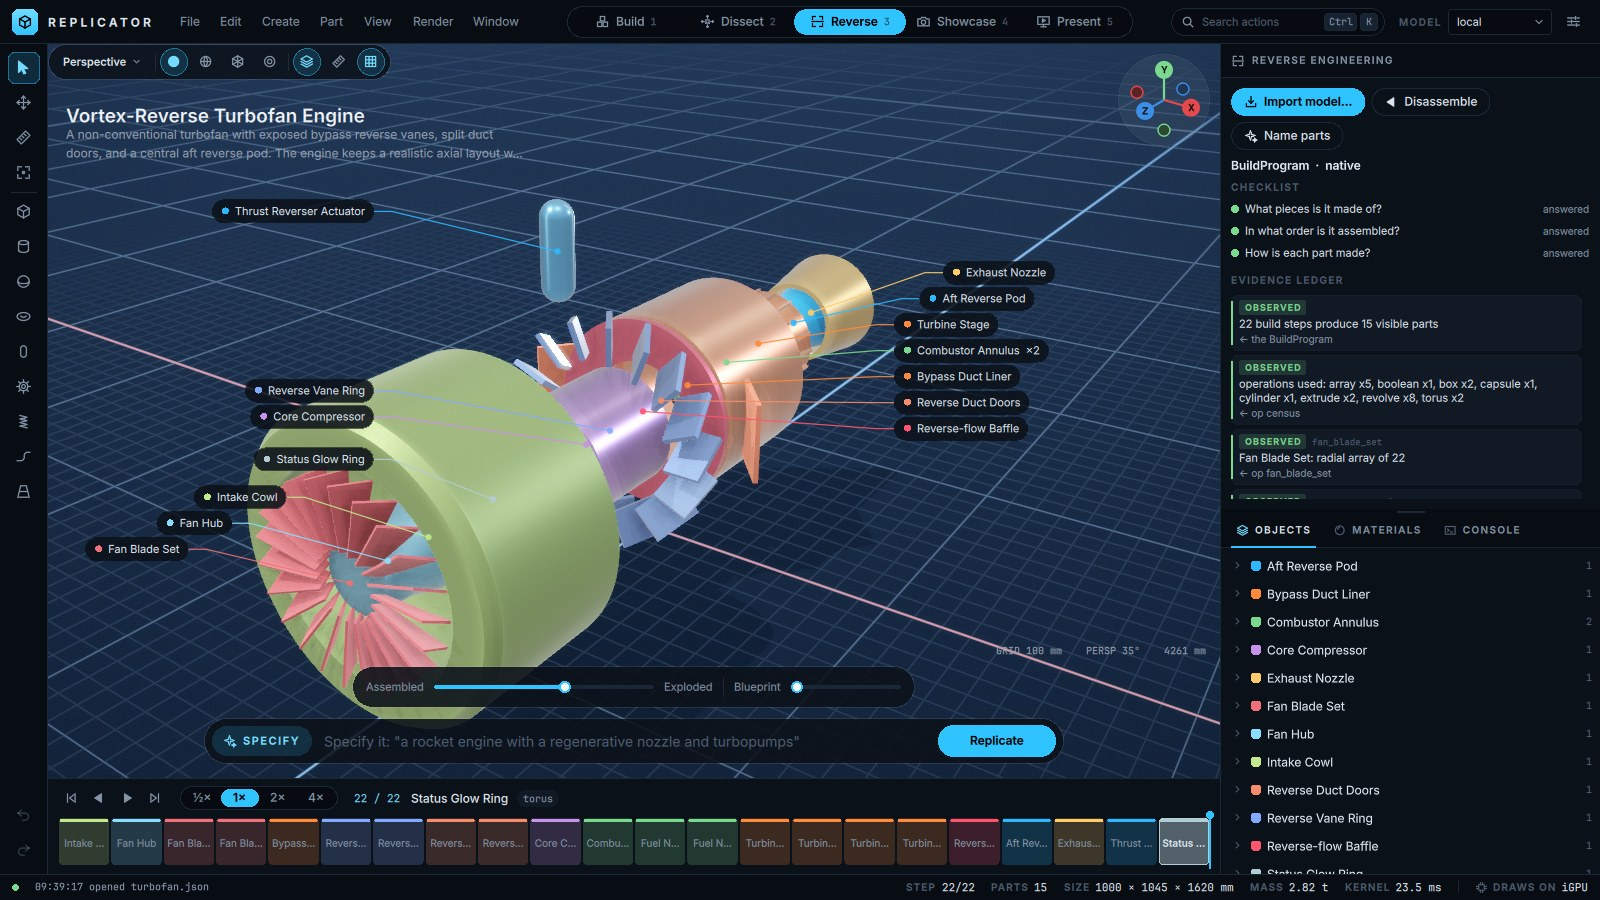
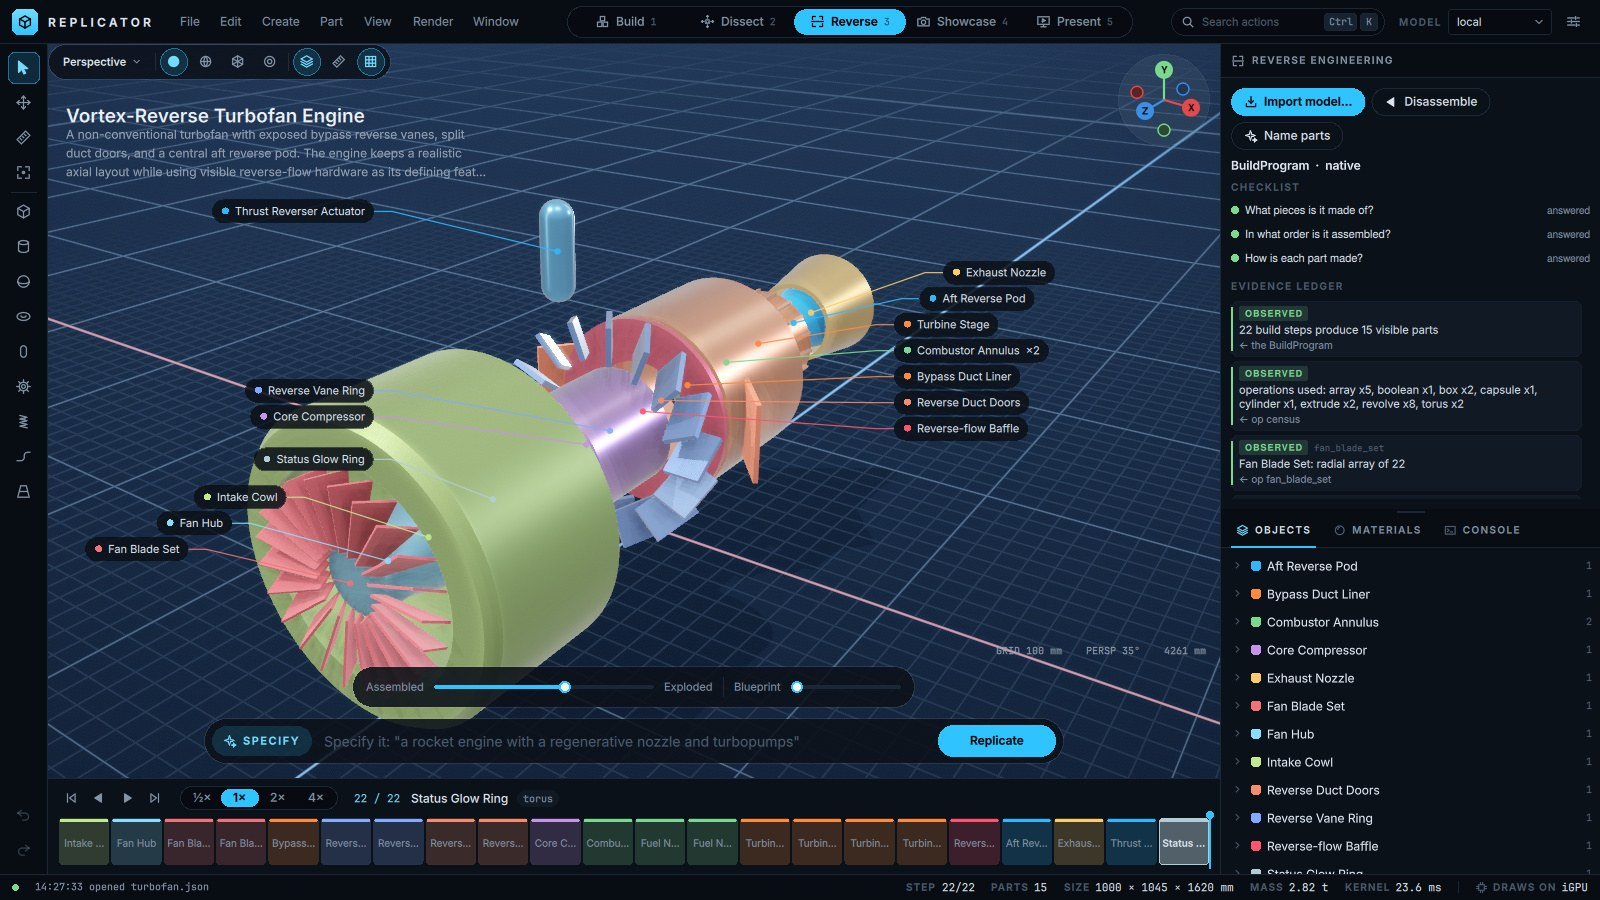
README: every image retaken from the current app; text checked against the code
The timeline GIF, the two app tiles in the range image and the three mode
previews are new frames of the real window: Dissect tags below the title,
the generic local engine in the picker, the narrower title summary. The
how-it-works diagram and banner list five modes and every export format.
Counts verified against the code: 13 checks, 26 ops, 11 knowledge cards,
24 import formats, nine examples. The roadmap marks pip and pipx install
done and keeps the one-click app open.

Changed region(s): [[0.75, 0.2178, 0.9688, 0.56], [0.0625, 0.1556, 0.3125, 0.2178], [0.9688, 0.2178, 1.0, 0.3111]]

diff --git a/tools/readme_art.py b/tools/readme_art.py
@@ -197,7 +197,7 @@ def banner() -> str:
 <rect x="520" y="219" width="96" height="34" rx="17" fill="{BL}"/>
 <text x="568" y="241" text-anchor="middle" class="s" font-size="14" font-weight="600" fill="#fff">Replicate</text>
 {"".join(chip_svg)}
-<text x="64" y="356" class="m" font-size="12" fill="{DIM}">your models · editable at every step · STEP / STL / 3MF / GLB · agents over MCP</text>
+<text x="64" y="356" class="m" font-size="12" fill="{DIM}">your models · editable at every step · STEP / DXF / STL / 3MF / URDF · agents over MCP</text>
 </svg>
 """
 
@@ -267,14 +267,15 @@ def how() -> str:
 
     # ---- row 2: modes
     y1 = 430
-    o.append(f'<text x="40" y="{y1 - 18}" class="m" font-size="12.5" letter-spacing="2.5" fill="{DIM}">FOUR MODES, ONE SCENE</text>')
+    o.append(f'<text x="40" y="{y1 - 18}" class="m" font-size="12.5" letter-spacing="2.5" fill="{DIM}">FIVE MODES, ONE SCENE</text>')
     modes = [
-        ("Build", BL, "1", ["Play, pause and scrub the build.", "Select any step, edit its params", "or its placement, and rebuild."]),
-        ("Dissect", "#e06b7b", "2", ["Exploded view along each part's", "own axis, with callouts that", "follow the parts."]),
-        ("Reverse", "#7ee8ac", "3", ["Import any mesh. Pieces, repeats,", "contacts and assembly order, each", "marked observed or inferred."]),
-        ("Showcase", AM, "4", ["Stage, turntable, depth of field.", "Render a Cycles still on the CPU", "in seconds."]),
+        ("Build", BL, "1", ["Play and scrub the build.", "Edit any step's params", "or placement; it rebuilds."]),
+        ("Dissect", "#e06b7b", "2", ["Exploded along each part's", "own axis, with callouts", "that follow the parts."]),
+        ("Reverse", "#7ee8ac", "3", ["Import any mesh: pieces,", "repeats, contacts, order,", "observed or inferred."]),
+        ("Showcase", AM, "4", ["Stage and turntable.", "A Cycles still renders", "on the CPU."]),
+        ("Present", "#c4a1ff", "5", ["Explain writes a checked", "account; Present walks", "it part by part."]),
     ]
-    mw, mg = 266, 12.6
+    mw, mg = 210.3, 12.6
     for i, (name, col, key, lines) in enumerate(modes):
         x = 40 + i * (mw + mg)
         o.append(f'<rect x="{x}" y="{y1}" width="{mw}" height="132" rx="12" fill="#111b28" stroke="{LINE}"/>')
@@ -291,7 +292,7 @@ def how() -> str:
     ins = [("image", "#c4a1ff", "Image to 3D", "a character sheet or any picture", "becomes a mesh in your ComfyUI"),
            ("cube", "#7ee8ac", "Mesh import", "GLB, STEP, OBJ, STL and 20 more formats", "open in Reverse and are taken apart")]
     outs = [("cube", AM, "Blender round trip", "Open in Blender, sculpt or texture,", "Pull back into Reverse (localhost:9876)"),
-            ("sheet", CY, "Export", "STEP for CAD, GLB for the web,", "STL and 3MF when you print")]
+            ("sheet", CY, "Export", "STEP and DXF for CAD, GLB and OBJ,", "STL and 3MF to print, URDF and MJCF to simulate")]
     for col_i, group in enumerate((ins, outs)):
         for j, (ic, col, title, a, b) in enumerate(group):
             x = 40 if col_i == 0 else 640
@@ -323,7 +324,7 @@ def how() -> str:
 
     return f"""<svg xmlns="http://www.w3.org/2000/svg" viewBox="0 0 {W} {H}" width="{W}" height="{H}" role="img" aria-labelledby="t d">
 <title id="t">How Replicator works</title>
-<desc id="d">Five stages: a sentence that specifies the object, a blueprint written by the model you choose, a BuildProgram of ordered operations, the manifold3d kernel that evaluates every step, and the workshop where the steps materialize. Validation errors loop back to the model for repair; edits in plain words become JSON Patches on the program. Four modes share one scene: Build, Dissect, Reverse and Showcase. Image to 3D and mesh import come in; a Blender round trip and STEP, STL, 3MF or GLB export go out. Geometry, checks and exports run on your CPU; the model is any OpenAI-compatible endpoint you name.</desc>
+<desc id="d">Five stages: a sentence that specifies the object, a blueprint written by the model you choose, a BuildProgram of ordered operations, the manifold3d kernel that evaluates every step, and the workshop where the steps materialize. Validation errors loop back to the model for repair; edits in plain words become JSON Patches on the program. Five modes share one scene: Build, Dissect, Reverse, Showcase and Present. Image to 3D and mesh import come in; a Blender round trip and STEP, DXF, STL, 3MF, GLB, OBJ, URDF or MJCF export go out. Geometry, checks and exports run on your CPU; the model is any OpenAI-compatible endpoint you name.</desc>
 <defs>
 <linearGradient id="bg" x1="0" y1="0" x2="0" y2="1"><stop offset="0" stop-color="#0b1420"/><stop offset="1" stop-color="#070c13"/></linearGradient>
 <style>{STYLE}</style>

diff --git a/README.md b/README.md
@@ -62,7 +62,7 @@ replicator                                    # the start screen lists nine exam
 git clone https://github.com/T-Crypt/replicator.git && cd replicator
 python -m venv .venv && . .venv/bin/activate
 pip install -e ".[all]"                 # the app, the MCP server, STEP/IGES import, MuJoCo and the tests
-pytest -q                               # about 200 tests, under 30 s
+pytest -q                               # about 230 tests, under 30 s
 replicator replicator/fixtures/rocket_engine.json  # open a program and watch it build
 ```
 
@@ -81,7 +81,7 @@ Optional: `blender` 4.x or 5.x on `PATH` for Cycles stills, the Blender round tr
 
 ## How it works
 
-<p align="center"><img src="https://raw.githubusercontent.com/T-Crypt/replicator/main/assets/how-it-works.svg" alt="How Replicator works. Five stages: a sentence that specifies the object, a blueprint written by the model you choose, a BuildProgram of ordered operations, the manifold3d kernel that evaluates every step, and the workshop where the steps materialize. Validation errors loop back to the model for repair, and edits in plain words become JSON Patches on the program. Four modes share one scene: Build, Dissect, Reverse and Showcase. Image to 3D and mesh import come in; a Blender round trip and STEP, STL, 3MF or GLB export go out. Geometry, checks and exports run on your CPU; the model is any OpenAI-compatible endpoint you name." width="100%"></p>
+<p align="center"><img src="https://raw.githubusercontent.com/T-Crypt/replicator/main/assets/how-it-works.svg" alt="How Replicator works. Five stages: a sentence that specifies the object, a blueprint written by the model you choose, a BuildProgram of ordered operations, the manifold3d kernel that evaluates every step, and the workshop where the steps materialize. Validation errors loop back to the model for repair, and edits in plain words become JSON Patches on the program. Five modes share one scene: Build, Dissect, Reverse, Showcase and Present. Image to 3D and mesh import come in; a Blender round trip and STEP, DXF, STL, 3MF, GLB, OBJ, URDF or MJCF export go out. Geometry, checks and exports run on your CPU; the model is any OpenAI-compatible endpoint you name." width="100%"></p>
 
 1. **Specify.** You type what you want: *"a two-bedroom house with a gable roof"* or *"a turbofan with
    reverse thrust doors"*. Curated knowledge cards (houses, electronics boards, desktop PCs, drones,
@@ -243,7 +243,7 @@ with the Hunyuan3D 2.x models. Replicator cleans it, scales it to millimetres an
 Reverse. Point it at your ComfyUI with `COMFY_URL` (default `http://127.0.0.1:8188`).
 
 *Render > Open in Blender* sends the build to Blender through a vendored copy of the
-[mcp-for-blender](vendor/mcp-for-blender) add-on (pinned, update check off, telemetry off, listening
+[mcp-for-blender](https://github.com/T-Crypt/replicator/tree/main/vendor/mcp-for-blender) add-on (pinned, update check off, telemetry off, listening
 on `localhost:9876` only): one collection per component, objects named by label. Sculpt or texture
 it there, then *Pull back from Blender* brings the result into Reverse.
 
@@ -284,8 +284,8 @@ applies last. Coordinates are Y-up and right-handed, in the program's `units`.
 ```
 
 A saved program lives in a `<name>.replicator/` folder: `program.json` plus `history/NNNN.json`, one
-file per version, so an edit can be undone across sessions. `replicator/fixtures/` holds examples: rocket
-engines, a turbofan, a liquid-cooled PC, a Raspberry Pi 5, a quadcopter and a house.
+file per version, so an edit can be undone across sessions. `replicator/fixtures/` holds the nine examples: three rocket
+engines, two jet engines, a liquid-cooled PC, a Raspberry Pi 5, a quadcopter and a house.
 
 **Headless frames.** `--shot` renders one frame of a hidden window to a PNG. It needs a display,
 because Qt's `offscreen` platform cannot run Qt Quick 3D.
@@ -334,7 +334,8 @@ bench/  tools/    benchmark tasks, check, corpus, preview stills and films
 - [ ] Joints and mates as program data
 - [ ] Scale-aware printability, slicing and send to printer
 - [ ] Reverse to program: imported pieces become real, editable ops
-- [ ] A packaged app with a first-run model picker
+- [x] `pip install replicator-workshop`, or pipx; the window, shaders and examples ship in the package
+- [ ] A one-click app (AppImage or Flatpak) with a first-run model picker
 
 Details and the check for each item: [docs/ROADMAP.md](https://github.com/T-Crypt/replicator/blob/main/docs/ROADMAP.md).
 

diff --git a/docs/ROADMAP.md b/docs/ROADMAP.md
@@ -16,6 +16,7 @@ shows what was verified, not only what was planned.
 | Installable by anyone: `pip install -e ".[all]"`, generic engines, GPU policy | A clean venv passes the suite; CI runs Python 3.11 and 3.13, full and core-only installs, and checks every fixture |
 | Measure tool (distance with X, Y, Z parts) | Two points across the house slab read 14160.5 mm, the computed diagonal |
 | Navigation with any mouse: Shift+drag pans, Ctrl+drag zooms | Orbit, pan and zoom with one button |
+| Installable from PyPI as `replicator-workshop` (pip or pipx), with the window, shaders and examples inside the package | CI installs the built wheel into a fresh venv and builds an example from outside the checkout; the installed app opens its start screen with all nine examples |
 | DXF out: the drawing's views at 1:1 in model units, on OUTLINE, EDGES, SECTION, DIMS and TEXT layers | ezdxf reads every fixture with no audit errors; the plate's section shows its 20 mm hole as a gap at 50 to 70 mm (`tests/test_dxf.py`) |
 | URDF and MJCF out, inertias from the exact solid (links fixed to a base until joints exist) | MuJoCo loads the MJCF with the mass Replicator reports and the model comes to rest upright (`tests/test_robot.py`, run in CI with the `sim` extra) |
 
@@ -27,7 +28,7 @@ shows what was verified, not only what was planned.
 | Slicing and send to printer, print queue (FR-PR-16 to 18) | Closes the print loop for those who print | A print starts after one confirm; the queue survives a restart |
 | Joints and mates as program data, with a mate check | Assemblies; feeds URDF | A drone fixture with named joints; a rotor through an arm fails the check |
 | Reverse to program | The unique lane: an unknown mesh becomes an editable program | An imported model rebuilds within tolerance, unknowns listed |
-| Packaged app and first-run endpoint picker | People who do not use pip | A clean machine runs a build in under 10 minutes |
+| One-click app (AppImage or Flatpak) and first-run endpoint picker | People who do not use pip | A clean machine runs a build in under 10 minutes |
 
 ## Declined
 
